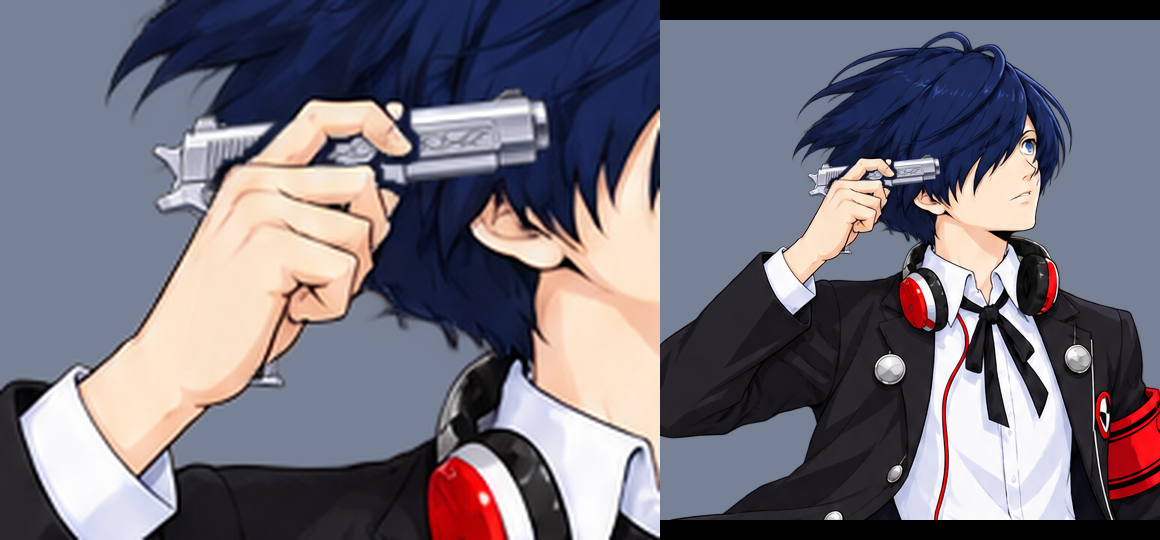
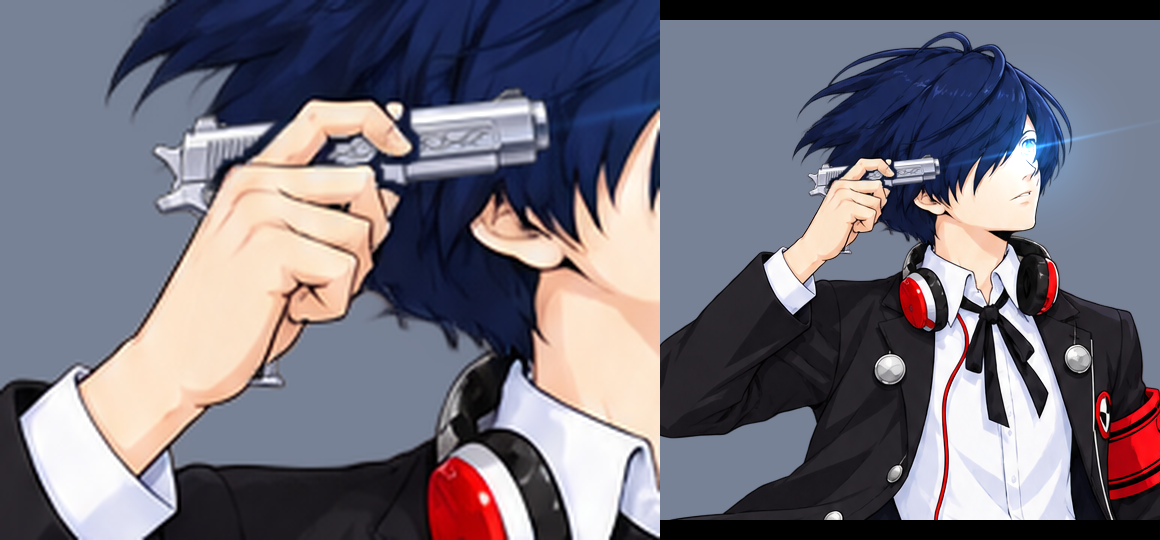
rig v7: blue eye glow layer for the awaken frame (additive: iris lift, bloom, halo, eye-line streak, small star)
Claude-Session: https://claude.ai/code/session_01Nam5m2bn9ofCCWTGM6fwcN

Changed region(s): [[0.8069, 0.1778, 0.9621, 0.3852], [0.4966, 0.1778, 0.5897, 0.237]]

diff --git a/tools/rig/v7_evoker_comp.py b/tools/rig/v7_evoker_comp.py
@@ -76,6 +76,36 @@ def hand_layer(img, box):
     return layer
 
 
+EYE = {"awaken": ((620.0, 128.0), -12.0)}      # 露出的那只眼睛：虹膜中心、眼睛走向（度，仰头时略向上斜）
+
+
+def eye_glow(center, tilt, size=(1024, 1536)):
+    """眼中蓝光（加色层，rig 里单独做亮起 / 退去）：虹膜发亮 + 柔光 + 大范围光晕 + 沿眼睛方向的细长横光 + 小十字星。
+    RGB = 颜色，alpha = 强度（Spine additive 槽：rgb × alpha 叠加）。"""
+    W, H = size
+    ys, xs = np.mgrid[0:H, 0:W].astype(np.float32)
+    dx, dy = xs - center[0], ys - center[1]
+    t = np.radians(tilt)
+    u = dx * np.cos(t) + dy * np.sin(t)              # 沿眼睛方向
+    v = -dx * np.sin(t) + dy * np.cos(t)
+    r2 = dx * dx + dy * dy
+    iris = np.exp(-r2 / (2 * 3.5 ** 2)) * 0.55        # 不要把虹膜冲成白：只提亮、保留瞳孔细节
+    bloom = np.exp(-r2 / (2 * 12 ** 2)) * 0.5
+    halo = np.exp(-r2 / (2 * 40 ** 2)) * 0.2
+    streak = np.exp(-(v / 1.8) ** 2) * np.exp(-np.abs(u) / 42) * 0.6
+    star = (np.exp(-(v / 1.0) ** 2) * np.exp(-np.abs(u) / 10) + np.exp(-(u / 1.0) ** 2) * np.exp(-np.abs(v) / 10)) * 0.55
+    I = np.clip(iris + bloom + halo + streak + star, 0, 1)
+    white = np.clip(iris * 0.8 + star * 0.6, 0, 1)[..., None]           # 中心偏白，外圈青蓝
+    col = np.array([0.18, 0.62, 1.0]) * (1 - white) + np.array([0.9, 1.0, 1.0]) * white
+    return np.dstack([col, I]).astype(np.float32)
+
+
+def add(dst, glow):
+    out = dst.copy()
+    out[..., :3] = np.clip(dst[..., :3] + glow[..., :3] * glow[..., 3:], 0, 1)
+    return out
+
+
 def over(dst, src):
     a = src[..., 3:]
     out = dst.copy()
@@ -95,11 +125,20 @@ def build(name):
     hand = hand_layer(img, box)
     comp = over(over(img, gun), hand)
     OUT.mkdir(parents=True, exist_ok=True)
+    if name in EYE:
+        glow = eye_glow(*EYE[name])
+        to_img(glow).save(OUT / f"{name}_eyeglow.png")
+        comp_glow = add(comp, glow)
+    else:
+        comp_glow = comp
     to_img(comp).save(OUT / f"{name}.png")
     to_img(gun).save(OUT / f"{name}_evoker.png")
     to_img(hand).save(OUT / f"{name}_hand.png")
     bg = Image.new("RGBA", (1024, 1536), (120, 130, 150, 255))
     bg.alpha_composite(to_img(comp))
+    if name in EYE:                                  # 预览：加色叠在合成后的画面上
+        b = np.asarray(bg).astype(np.float32) / 255
+        bg = to_img(add(b, eye_glow(*EYE[name])))
     x0, y0, x1, y1 = box
     cx, cy = (x0 + muzzle[0]) / 2, (y0 + y1) / 2
     crop = bg.crop((int(cx - 110), int(cy - 90), int(cx + 110), int(cy + 90))).resize((660, 540), Image.LANCZOS)
